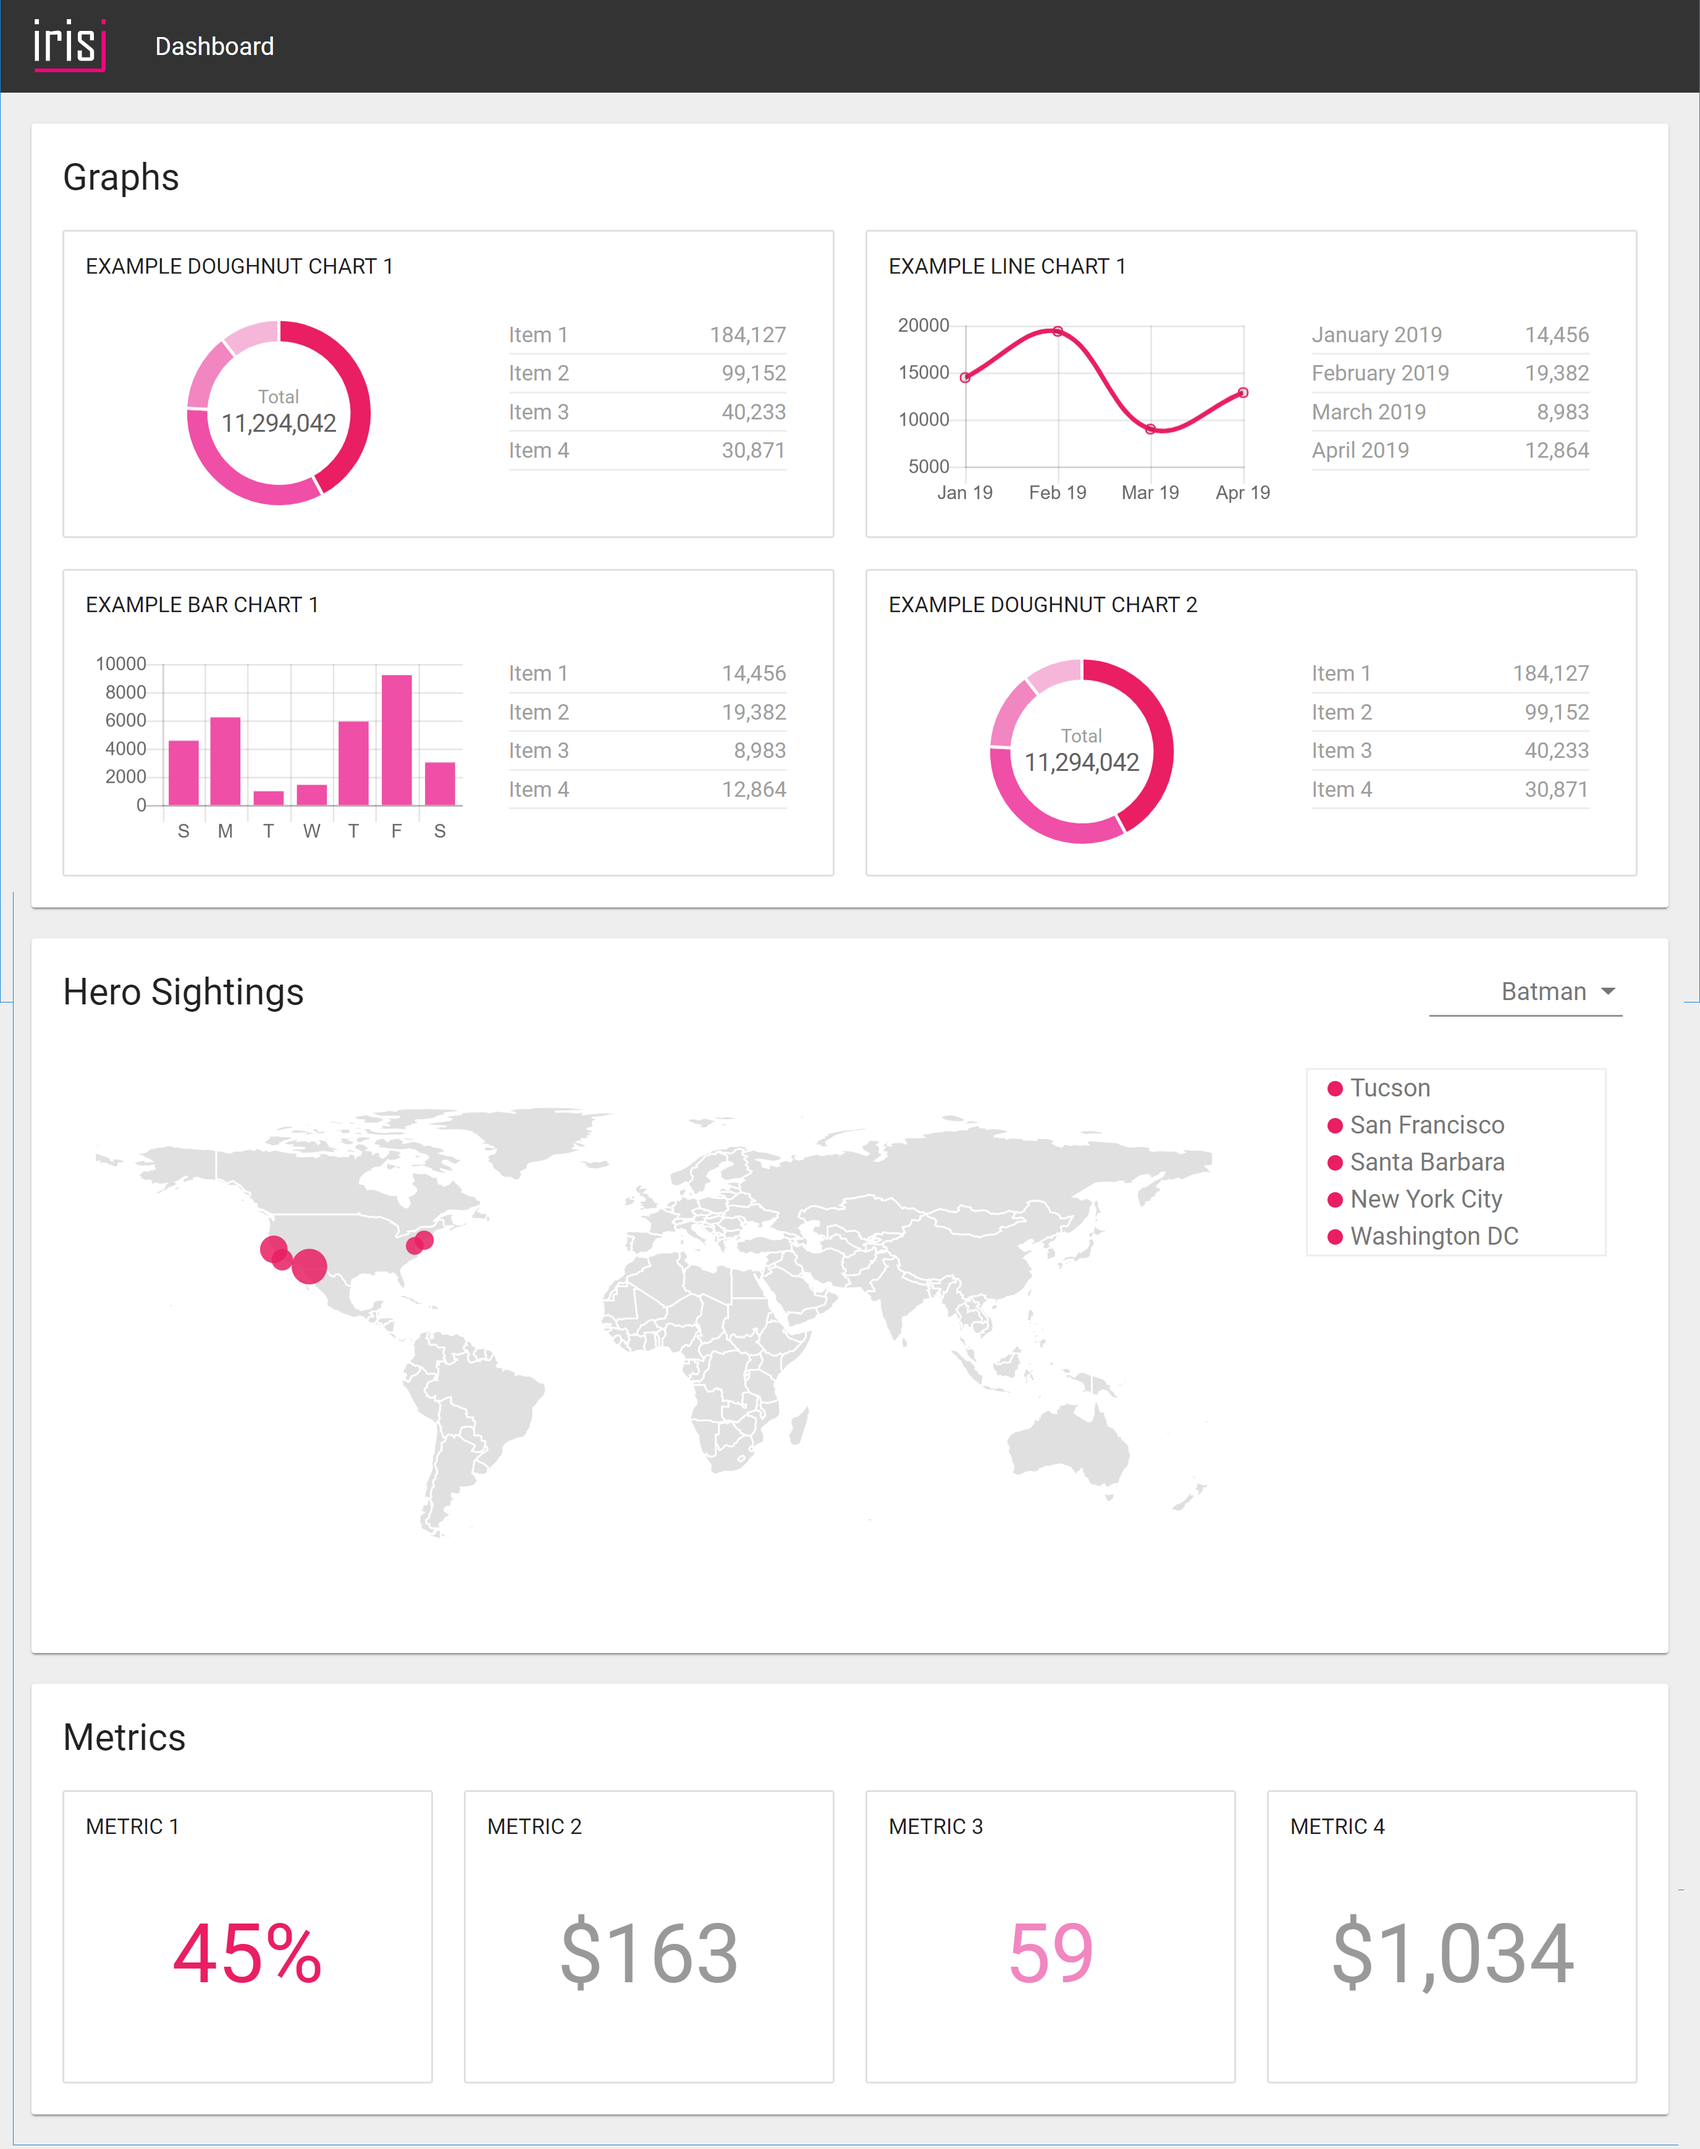
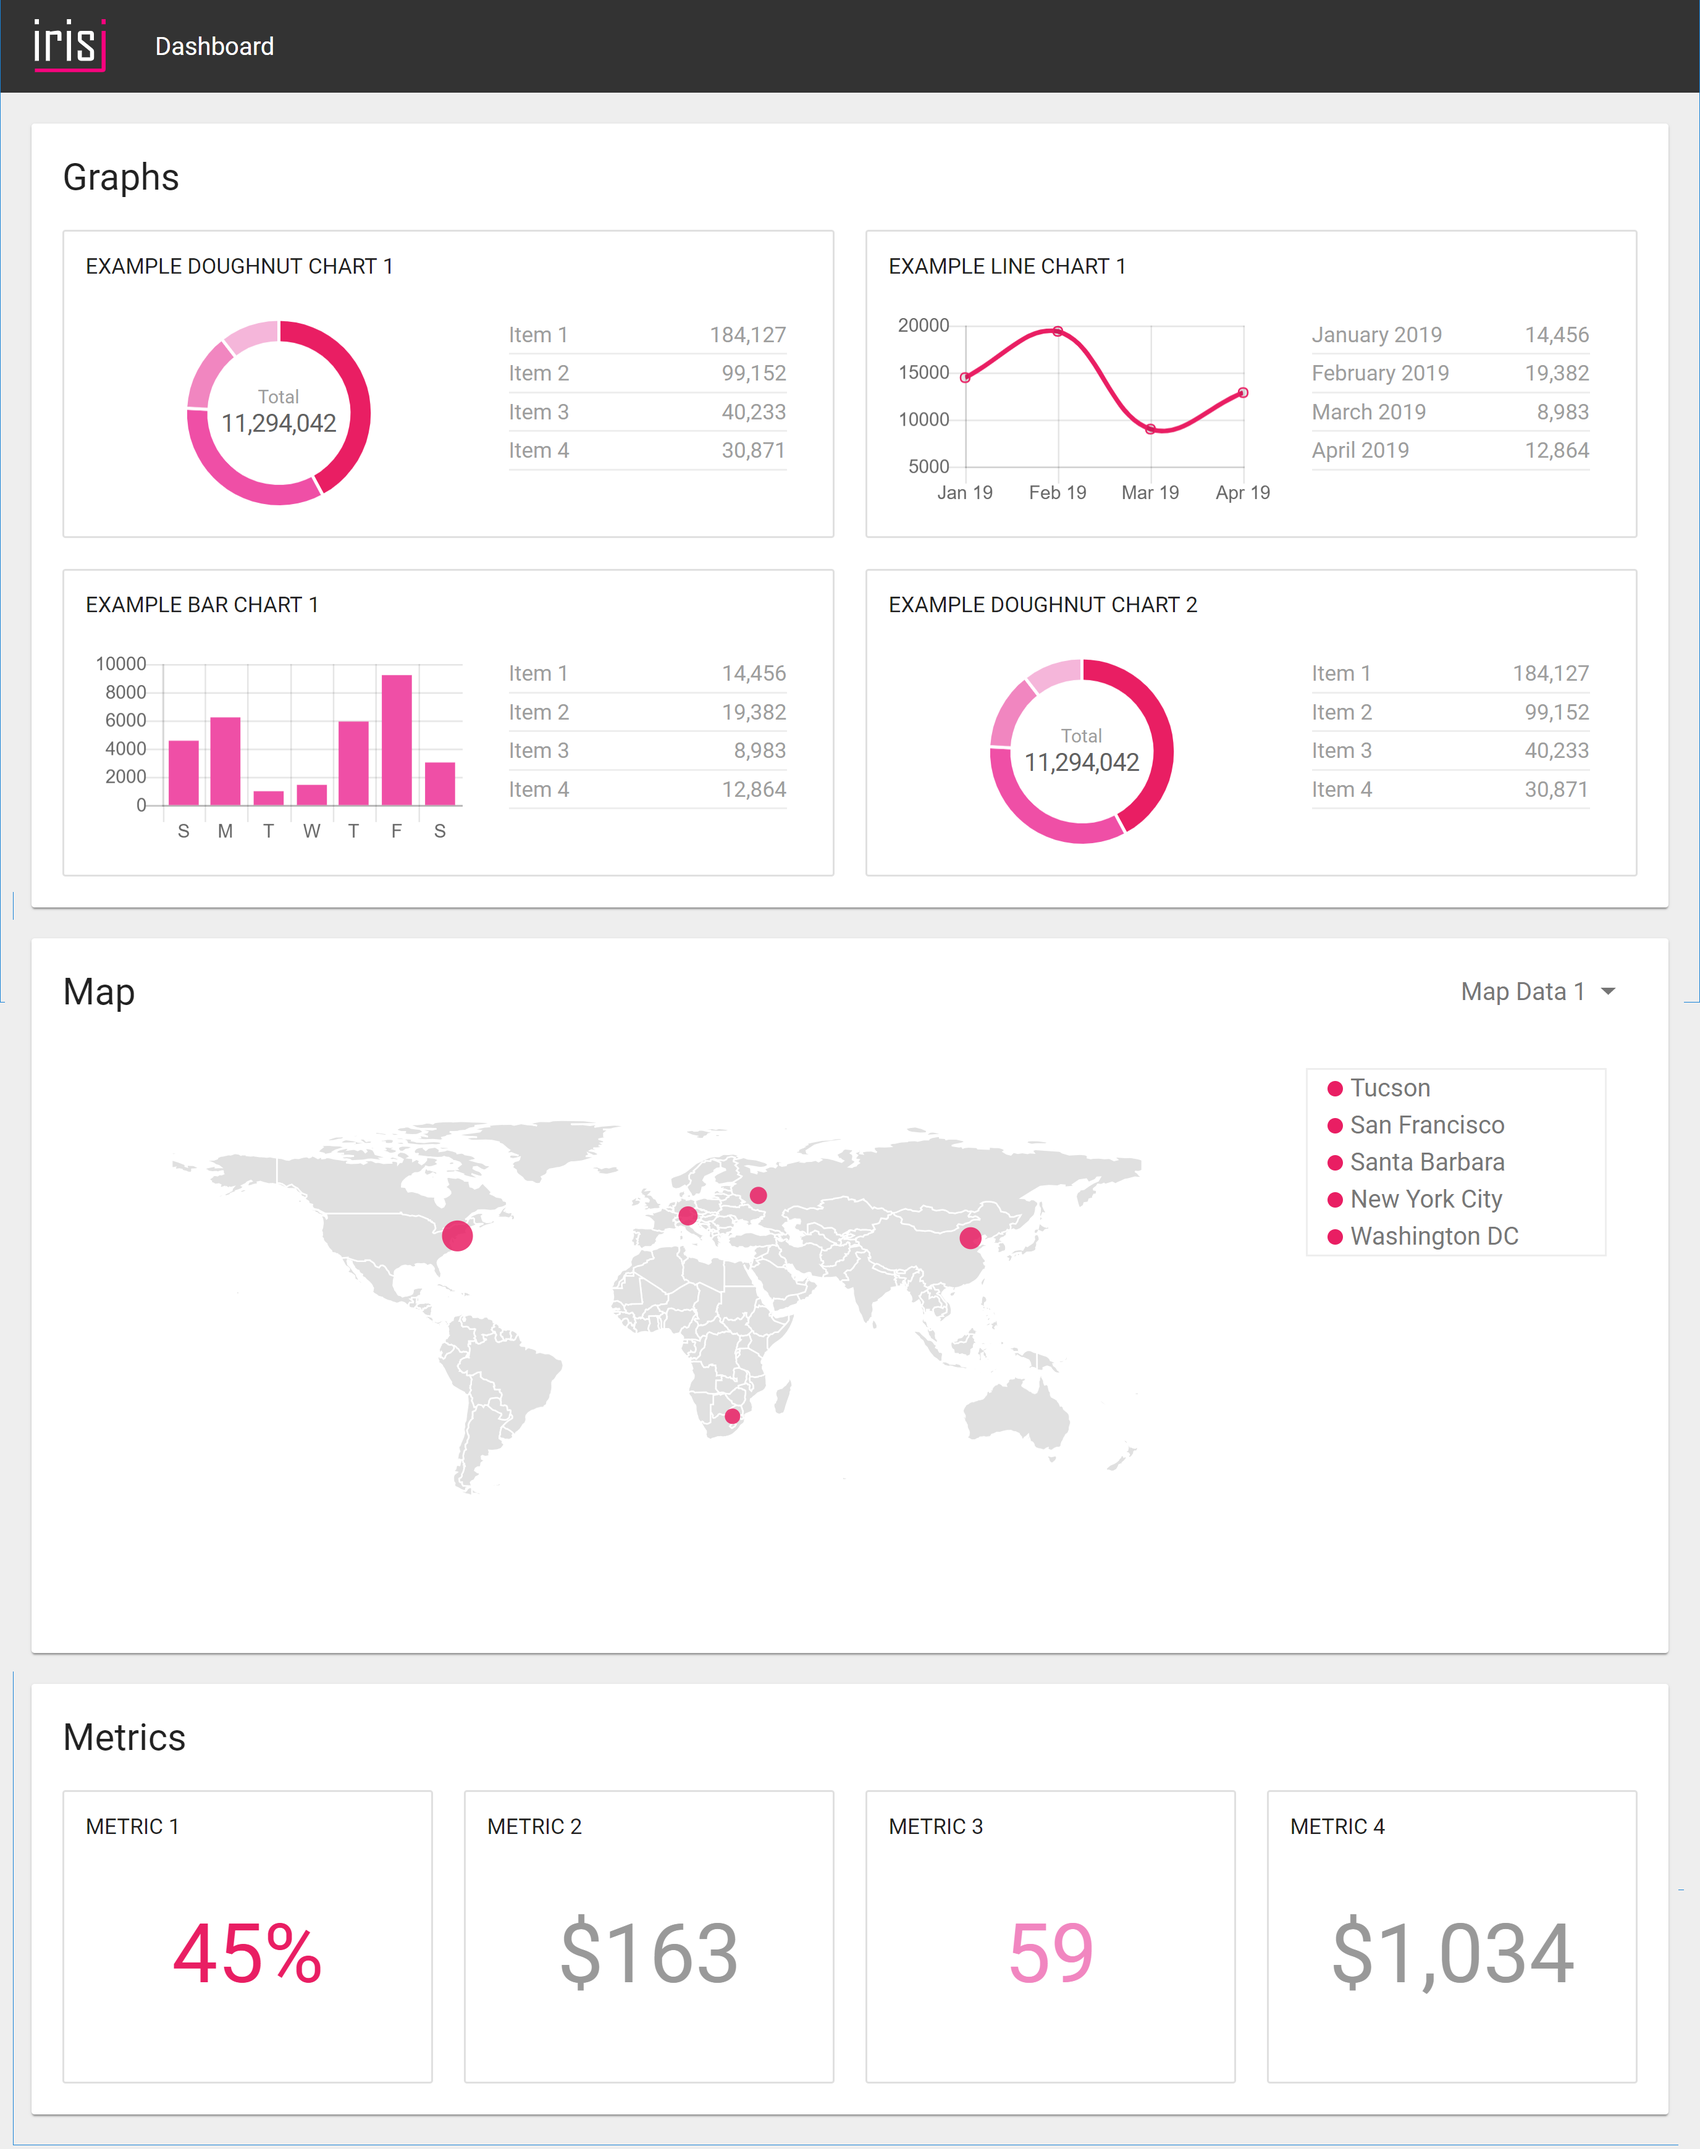
making changes to map

diff --git a/src/app/map/map.component.html b/src/app/map/map.component.html
@@ -3,10 +3,10 @@
     <div>
         <mat-form-field class="select-hero">
             <mat-select [formControl]="heroSelect" (selectionChange)="drawHeroCircles()">
-                <mat-option value="batman">Batman</mat-option>
-                <mat-option value="wonderwoman">Wonder Woman</mat-option>
-                <mat-option value="thor">Thor</mat-option>
-                <mat-option value="wolverine">Wolverine</mat-option>
+                <mat-option value="batman">Map Data 1</mat-option>
+                <mat-option value="wonderwoman">Map Data 2</mat-option>
+                <mat-option value="thor">Map Data 3</mat-option>
+                <mat-option value="wolverine">Map Data 4</mat-option>
             </mat-select>
         </mat-form-field>
     </div>

diff --git a/src/app/app.component.html b/src/app/app.component.html
@@ -37,7 +37,7 @@
 	</mat-card>
 
 	<mat-card class="bottom-margin">
-		<mat-card-title>Hero Sightings</mat-card-title>
+		<mat-card-title>Map</mat-card-title>
 		<app-map [heroData]="sightingsData"></app-map>
 	</mat-card>
 

diff --git a/src/app/map/map.component.scss b/src/app/map/map.component.scss
@@ -14,7 +14,7 @@
             color: #777;
             padding-right: 5px;
         }
-        ::ng-deep .mat-input-underline {
+        ::ng-deep .mat-form-field-underline {
             display: none;
         }
     }
